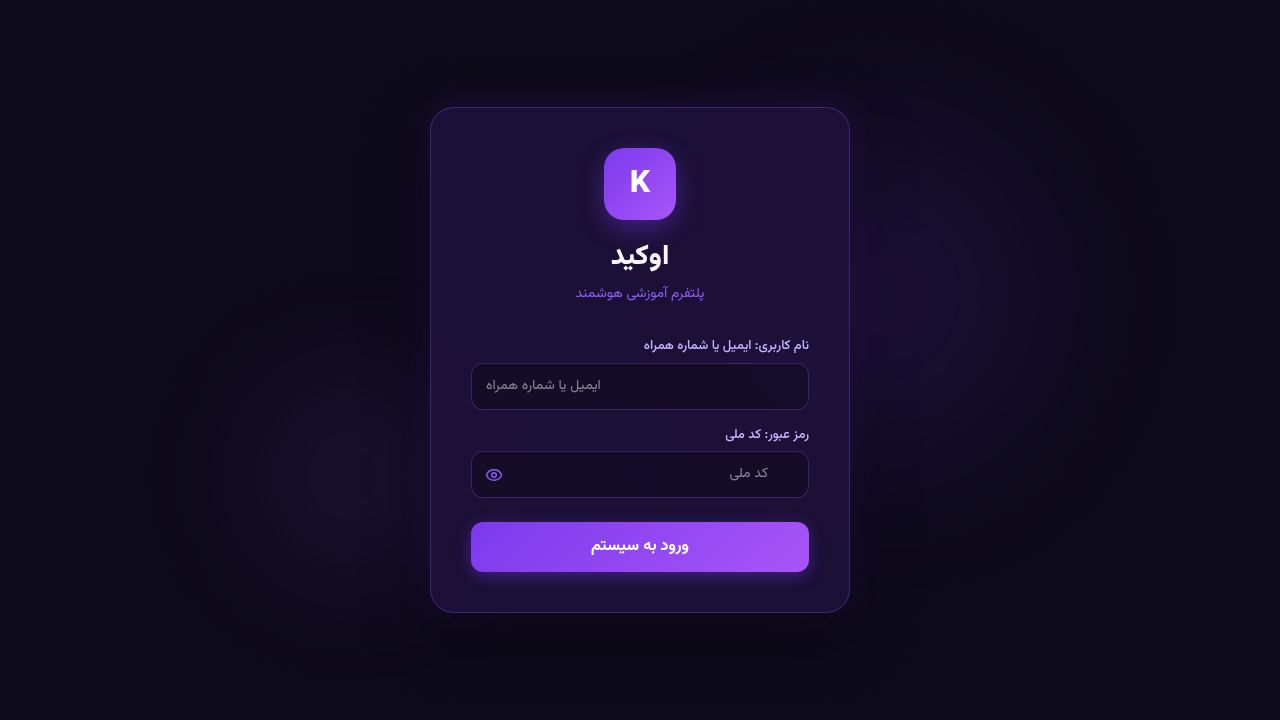
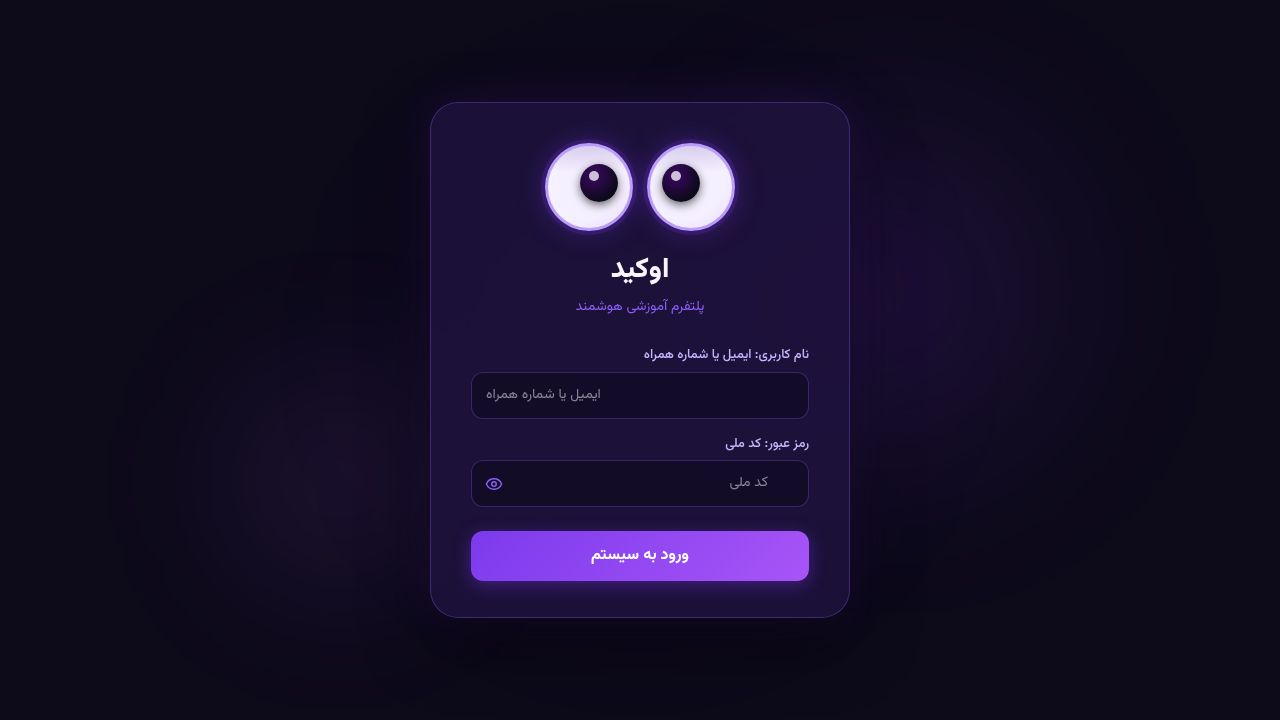
Add a dedicated section for teachers to send and receive notifications
Update API to support new notification fields and add a teacher notifications page with inbox and send functionalities.

Replit-Commit-Author: Agent
Replit-Commit-Session-Id: 32eac203-aa86-4546-9dbe-1a77ad4f8dbc
Replit-Commit-Checkpoint-Type: full_checkpoint
Replit-Commit-Event-Id: 1982fac4-1d1b-491f-a522-6bdc7282068e
Replit-Commit-Screenshot-Url: https://storage.googleapis.com/screenshot-production-us-central1/ea1dc6be-aa60-4f18-b8f4-bae2ee7fc477/32eac203-aa86-4546-9dbe-1a77ad4f8dbc/sMR4eHB
Replit-Helium-Checkpoint-Created: true

Changed region(s): [[0.4062, 0.1833, 0.625, 0.5194], [0.3438, 0.5806, 0.6562, 0.8556], [0.375, 0.5194, 0.4688, 0.5806]]

diff --git a/artifacts/okidd/src/pages/teacher/Notifications.tsx b/artifacts/okidd/src/pages/teacher/Notifications.tsx
@@ -1,0 +1,305 @@
+import { useState, useMemo } from "react";
+import { useQuery, useMutation, useQueryClient } from "@tanstack/react-query";
+import { api } from "../../lib/api";
+import { useAuthStore } from "../../store/auth";
+import { showToast } from "../../lib/toast";
+import { Bell, Send, Plus, Users, User, ChevronDown } from "lucide-react";
+
+const inputStyle = {
+  width: "100%",
+  background: "rgba(13,10,26,0.5)",
+  border: "1px solid rgba(139,92,246,0.3)",
+  borderRadius: 10,
+  color: "#f8f5ff",
+  padding: "10px 12px",
+  fontSize: 14,
+  fontFamily: "Vazirmatn, sans-serif",
+  outline: "none",
+  direction: "rtl" as const,
+  boxSizing: "border-box" as const,
+};
+
+type TargetType = "all_students" | "all_parents" | "specific_students" | "specific_parents";
+
+const TARGET_OPTIONS: { value: TargetType; label: string }[] = [
+  { value: "all_students", label: "همه دانشآموزان کلاس" },
+  { value: "all_parents", label: "همه اولیا کلاس" },
+  { value: "specific_students", label: "دانشآموزان خاص" },
+  { value: "specific_parents", label: "اولیای دانشآموزان خاص" },
+];
+
+export default function TeacherNotifications() {
+  const { user } = useAuthStore();
+  const qc = useQueryClient();
+  const [tab, setTab] = useState<"inbox" | "send">("inbox");
+  const [form, setForm] = useState({ title: "", body: "", classId: "", targetType: "all_students" as TargetType });
+  const [selectedStudentIds, setSelectedStudentIds] = useState<number[]>([]);
+
+  const { data: classes = [] } = useQuery<any[]>({
+    queryKey: ["classes", "teacher", user?.id],
+    queryFn: () => api.get(`/classes?teacherId=${user?.id}`),
+    enabled: !!user?.id,
+  });
+
+  const schoolIds = useMemo(() => [...new Set(classes.map((c: any) => c.schoolId).filter(Boolean))], [classes]);
+
+  const { data: broadcastNotifs = [] } = useQuery<any[]>({
+    queryKey: ["notifs-teacher-broadcast", schoolIds],
+    queryFn: async () => {
+      const all = await Promise.all(schoolIds.map(sid => api.get(`/notifications?schoolId=${sid}&targetRole=teacher`)));
+      return all.flat();
+    },
+    enabled: schoolIds.length > 0,
+  });
+
+  const { data: personalNotifs = [] } = useQuery<any[]>({
+    queryKey: ["notifs-teacher-personal", user?.id],
+    queryFn: () => api.get(`/notifications?targetUserId=${user?.id}&targetRole=teacher`),
+    enabled: !!user?.id,
+  });
+
+  const inbox = useMemo(() => {
+    const seen = new Set<number>();
+    return [...broadcastNotifs, ...personalNotifs]
+      .filter(n => { if (seen.has(n.id)) return false; seen.add(n.id); return true; })
+      .sort((a, b) => new Date(b.createdAt).getTime() - new Date(a.createdAt).getTime());
+  }, [broadcastNotifs, personalNotifs]);
+
+  const selectedClass = classes.find((c: any) => c.id === parseInt(form.classId));
+
+  const { data: classStudents = [] } = useQuery<any[]>({
+    queryKey: ["students-in-class", form.classId],
+    queryFn: () => api.get(`/users?classId=${form.classId}&role=student`),
+    enabled: !!form.classId && (form.targetType === "specific_students" || form.targetType === "specific_parents"),
+  });
+
+  const toggleStudent = (id: number) =>
+    setSelectedStudentIds(prev => prev.includes(id) ? prev.filter(x => x !== id) : [...prev, id]);
+
+  const sendMut = useMutation({
+    mutationFn: async (payload: { title: string; body: string; classId?: number; targetType: TargetType }) => {
+      const schoolId = selectedClass?.schoolId;
+      if (!schoolId) throw new Error("schoolId یافت نشد");
+      const base = { title: payload.title, body: payload.body, schoolId, senderId: user?.id, classId: payload.classId };
+
+      if (payload.targetType === "all_students") {
+        return api.post("/notifications", { ...base, targetRole: "student" });
+      }
+      if (payload.targetType === "all_parents") {
+        return api.post("/notifications", { ...base, targetRole: "parent" });
+      }
+      if (payload.targetType === "specific_students") {
+        if (!selectedStudentIds.length) throw new Error("حداقل یک دانشآموز انتخاب کنید");
+        return Promise.all(selectedStudentIds.map(uid =>
+          api.post("/notifications", { ...base, targetRole: "student", targetUserId: uid })
+        ));
+      }
+      if (payload.targetType === "specific_parents") {
+        if (!selectedStudentIds.length) throw new Error("حداقل یک دانشآموز انتخاب کنید");
+        const parents = selectedStudentIds.map(sid => classStudents.find((s: any) => s.id === sid)?.parentId).filter(Boolean);
+        if (!parents.length) throw new Error("اولیا پیدا نشد");
+        return Promise.all(parents.map((pid: number) =>
+          api.post("/notifications", { ...base, targetRole: "parent", targetUserId: pid })
+        ));
+      }
+      throw new Error("نوع مخاطب نامعتبر");
+    },
+    onSuccess: () => {
+      qc.invalidateQueries({ queryKey: ["notifs-teacher"] });
+      setForm({ title: "", body: "", classId: "", targetType: "all_students" });
+      setSelectedStudentIds([]);
+      showToast("پیام با موفقیت ارسال شد ✓");
+      setTab("inbox");
+    },
+    onError: (e: any) => showToast(e?.message ?? "خطا در ارسال", "error"),
+  });
+
+  const needsStudentPick = form.targetType === "specific_students" || form.targetType === "specific_parents";
+  const canSend = form.title && form.body && form.classId && (!needsStudentPick || selectedStudentIds.length > 0);
+
+  const tabStyle = (active: boolean) => ({
+    flex: 1,
+    padding: "10px 0",
+    border: "none",
+    borderRadius: 10,
+    fontFamily: "Vazirmatn, sans-serif",
+    fontSize: 14,
+    fontWeight: 700,
+    cursor: "pointer",
+    background: active ? "linear-gradient(135deg, #7c3aed, #a855f7)" : "transparent",
+    color: active ? "white" : "#8b5cf6",
+    transition: "all 0.2s",
+  });
+
+  return (
+    <div>
+      <div style={{ display: "flex", alignItems: "center", gap: 12, marginBottom: 24 }}>
+        <Bell size={22} style={{ color: "#f97316" }} />
+        <h1 style={{ fontSize: 22, fontWeight: 800, color: "#f8f5ff", margin: 0 }}>اعلانها</h1>
+      </div>
+
+      <div style={{ display: "flex", gap: 8, background: "rgba(30,18,60,0.7)", border: "1px solid rgba(124,58,237,0.2)", borderRadius: 12, padding: 4, marginBottom: 24 }}>
+        <button style={tabStyle(tab === "inbox")} onClick={() => setTab("inbox")}>
+          <span style={{ display: "flex", alignItems: "center", justifyContent: "center", gap: 6 }}>
+            <Bell size={15} /> دریافتشده {inbox.length > 0 && <span style={{ background: "#f97316", color: "white", borderRadius: 999, padding: "1px 7px", fontSize: 11 }}>{inbox.length}</span>}
+          </span>
+        </button>
+        <button style={tabStyle(tab === "send")} onClick={() => setTab("send")}>
+          <span style={{ display: "flex", alignItems: "center", justifyContent: "center", gap: 6 }}>
+            <Send size={15} /> ارسال پیام
+          </span>
+        </button>
+      </div>
+
+      {tab === "inbox" && (
+        <div style={{ display: "flex", flexDirection: "column", gap: 10 }}>
+          {inbox.map(n => (
+            <div key={n.id} style={{ background: "rgba(30,18,60,0.85)", border: "1px solid rgba(139,92,246,0.2)", borderRadius: 14, padding: "16px 18px", display: "flex", alignItems: "flex-start", gap: 14 }}>
+              <div style={{ width: 40, height: 40, borderRadius: 12, background: "rgba(249,115,22,0.15)", border: "1px solid rgba(249,115,22,0.3)", display: "flex", alignItems: "center", justifyContent: "center", flexShrink: 0 }}>
+                <Bell size={18} style={{ color: "#f97316" }} />
+              </div>
+              <div style={{ flex: 1 }}>
+                <div style={{ fontWeight: 700, color: "#f8f5ff", fontSize: 15, marginBottom: 4 }}>{n.title}</div>
+                <p style={{ color: "#c4b5fd", fontSize: 13, margin: 0, lineHeight: 1.6 }}>{n.body}</p>
+                {n.createdAt && (
+                  <div style={{ color: "#8b5cf6", fontSize: 11, marginTop: 6 }}>
+                    {new Date(n.createdAt).toLocaleDateString("fa-IR")}
+                  </div>
+                )}
+              </div>
+            </div>
+          ))}
+          {inbox.length === 0 && (
+            <div style={{ textAlign: "center", padding: 50, color: "#8b5cf6" }}>
+              <Bell size={48} style={{ marginBottom: 12, opacity: 0.4, display: "block", margin: "0 auto 12px" }} />
+              <p>هیچ اعلانی دریافت نشده</p>
+            </div>
+          )}
+        </div>
+      )}
+
+      {tab === "send" && (
+        <div style={{ background: "rgba(30,18,60,0.85)", border: "1px solid rgba(124,58,237,0.3)", borderRadius: 16, padding: 24 }}>
+          <h3 style={{ color: "#f8f5ff", fontSize: 16, fontWeight: 700, marginTop: 0, marginBottom: 20 }}>ارسال پیام جدید</h3>
+          <div style={{ display: "grid", gap: 16 }}>
+
+            <div>
+              <label style={{ display: "block", color: "#c4b5fd", fontSize: 13, marginBottom: 6 }}>انتخاب کلاس</label>
+              <div style={{ position: "relative" }}>
+                <select value={form.classId} onChange={e => { setForm({ ...form, classId: e.target.value }); setSelectedStudentIds([]); }} style={{ ...inputStyle, appearance: "none", paddingLeft: 36 }}>
+                  <option value="">-- کلاس را انتخاب کنید --</option>
+                  {classes.map((c: any) => (
+                    <option key={c.id} value={c.id}>{c.name}</option>
+                  ))}
+                </select>
+                <ChevronDown size={16} style={{ position: "absolute", left: 12, top: "50%", transform: "translateY(-50%)", color: "#8b5cf6", pointerEvents: "none" }} />
+              </div>
+            </div>
+
+            <div>
+              <label style={{ display: "block", color: "#c4b5fd", fontSize: 13, marginBottom: 6 }}>مخاطبان</label>
+              <div style={{ display: "grid", gridTemplateColumns: "1fr 1fr", gap: 8 }}>
+                {TARGET_OPTIONS.map(opt => (
+                  <button key={opt.value} onClick={() => { setForm({ ...form, targetType: opt.value }); setSelectedStudentIds([]); }}
+                    style={{
+                      padding: "10px 12px", borderRadius: 10, border: "1px solid",
+                      borderColor: form.targetType === opt.value ? "#a855f7" : "rgba(139,92,246,0.25)",
+                      background: form.targetType === opt.value ? "rgba(124,58,237,0.25)" : "transparent",
+                      color: form.targetType === opt.value ? "#d8b4fe" : "#8b5cf6",
+                      fontFamily: "Vazirmatn, sans-serif", fontSize: 13, cursor: "pointer",
+                      display: "flex", alignItems: "center", gap: 6,
+                    }}>
+                    {opt.value.startsWith("all") ? <Users size={14} /> : <User size={14} />}
+                    {opt.label}
+                  </button>
+                ))}
+              </div>
+            </div>
+
+            {needsStudentPick && form.classId && (
+              <div>
+                <label style={{ display: "block", color: "#c4b5fd", fontSize: 13, marginBottom: 8 }}>
+                  انتخاب دانشآموزان
+                  {selectedStudentIds.length > 0 && (
+                    <span style={{ marginRight: 8, background: "rgba(124,58,237,0.3)", borderRadius: 999, padding: "2px 8px", fontSize: 11, color: "#d8b4fe" }}>
+                      {selectedStudentIds.length} نفر انتخاب شده
+                    </span>
+                  )}
+                </label>
+                <div style={{ background: "rgba(13,10,26,0.4)", border: "1px solid rgba(139,92,246,0.2)", borderRadius: 10, overflow: "hidden" }}>
+                  {classStudents.length === 0 && (
+                    <p style={{ color: "#8b5cf6", padding: "14px 16px", margin: 0, fontSize: 13 }}>دانشآموزی در این کلاس ثبت نشده</p>
+                  )}
+                  {classStudents.map((s: any, i: number) => {
+                    const selected = selectedStudentIds.includes(s.id);
+                    return (
+                      <div key={s.id} onClick={() => toggleStudent(s.id)}
+                        style={{
+                          display: "flex", alignItems: "center", gap: 12,
+                          padding: "10px 14px", cursor: "pointer",
+                          borderTop: i > 0 ? "1px solid rgba(139,92,246,0.1)" : "none",
+                          background: selected ? "rgba(124,58,237,0.15)" : "transparent",
+                          transition: "background 0.15s",
+                        }}>
+                        <div style={{
+                          width: 20, height: 20, borderRadius: 6, border: `2px solid ${selected ? "#a855f7" : "rgba(139,92,246,0.4)"}`,
+                          background: selected ? "#a855f7" : "transparent",
+                          display: "flex", alignItems: "center", justifyContent: "center", flexShrink: 0,
+                        }}>
+                          {selected && <span style={{ color: "white", fontSize: 12, lineHeight: 1 }}>✓</span>}
+                        </div>
+                        <span style={{ color: "#f8f5ff", fontSize: 14 }}>{s.name}</span>
+                        {form.targetType === "specific_parents" && s.parentId && (
+                          <span style={{ fontSize: 11, color: "#60a5fa", background: "rgba(59,130,246,0.1)", borderRadius: 999, padding: "2px 8px" }}>ولی دارد</span>
+                        )}
+                        {form.targetType === "specific_parents" && !s.parentId && (
+                          <span style={{ fontSize: 11, color: "#f87171", background: "rgba(248,113,113,0.1)", borderRadius: 999, padding: "2px 8px" }}>بدون ولی</span>
+                        )}
+                      </div>
+                    );
+                  })}
+                </div>
+                {classStudents.length > 0 && (
+                  <div style={{ display: "flex", gap: 8, marginTop: 8 }}>
+                    <button onClick={() => setSelectedStudentIds(classStudents.map((s: any) => s.id))}
+                      style={{ fontSize: 12, color: "#a855f7", background: "none", border: "none", cursor: "pointer", fontFamily: "Vazirmatn, sans-serif", padding: 0 }}>
+                      <Plus size={12} style={{ verticalAlign: "middle" }} /> انتخاب همه
+                    </button>
+                    <span style={{ color: "#4b5563" }}>|</span>
+                    <button onClick={() => setSelectedStudentIds([])}
+                      style={{ fontSize: 12, color: "#6b7280", background: "none", border: "none", cursor: "pointer", fontFamily: "Vazirmatn, sans-serif", padding: 0 }}>
+                      حذف انتخابها
+                    </button>
+                  </div>
+                )}
+              </div>
+            )}
+
+            <div>
+              <label style={{ display: "block", color: "#c4b5fd", fontSize: 13, marginBottom: 6 }}>عنوان پیام</label>
+              <input value={form.title} onChange={e => setForm({ ...form, title: e.target.value })} placeholder="عنوان را وارد کنید..." style={inputStyle} />
+            </div>
+
+            <div>
+              <label style={{ display: "block", color: "#c4b5fd", fontSize: 13, marginBottom: 6 }}>متن پیام</label>
+              <textarea value={form.body} onChange={e => setForm({ ...form, body: e.target.value })} rows={4} placeholder="متن پیام را اینجا بنویسید..." style={{ ...inputStyle, resize: "vertical" }} />
+            </div>
+
+            <button
+              onClick={() => sendMut.mutate({ title: form.title, body: form.body, classId: form.classId ? parseInt(form.classId) : undefined, targetType: form.targetType })}
+              disabled={!canSend || sendMut.isPending}
+              style={{
+                padding: "13px 0", background: canSend ? "linear-gradient(135deg, #7c3aed, #a855f7)" : "rgba(124,58,237,0.3)",
+                border: "none", borderRadius: 12, color: "white", fontSize: 15, fontWeight: 700,
+                fontFamily: "Vazirmatn, sans-serif", cursor: canSend ? "pointer" : "not-allowed",
+                display: "flex", alignItems: "center", justifyContent: "center", gap: 8,
+              }}>
+              <Send size={16} />
+              {sendMut.isPending ? "در حال ارسال..." : "ارسال پیام"}
+            </button>
+          </div>
+        </div>
+      )}
+    </div>
+  );
+}

diff --git a/artifacts/api-server/src/routes/notifications.ts b/artifacts/api-server/src/routes/notifications.ts
@@ -5,10 +5,13 @@ import { eq } from "drizzle-orm";
 const router = Router();
 
 router.get("/notifications", async (req, res) => {
-  const { schoolId, targetRole, userId } = req.query as Record<string, string>;
+  const { schoolId, targetRole, senderId, targetUserId } = req.query as Record<string, string>;
   let rows = await db.select().from(notificationsTable);
   if (schoolId) rows = rows.filter(n => n.schoolId === parseInt(schoolId));
   if (targetRole) rows = rows.filter(n => n.targetRole === targetRole);
+  if (senderId) rows = rows.filter(n => n.senderId === parseInt(senderId));
+  if (targetUserId) rows = rows.filter(n => n.targetUserId === parseInt(targetUserId));
+  rows.sort((a, b) => new Date(b.createdAt).getTime() - new Date(a.createdAt).getTime());
   res.json(rows);
 });
 

diff --git a/artifacts/okidd/src/components/Layout.tsx b/artifacts/okidd/src/components/Layout.tsx
@@ -55,7 +55,8 @@ const branchManagerNav: NavItem[] = [
 
 const teacherNav: NavItem[] = [
   { label: "داشبورد", path: "/teacher", icon: <LayoutDashboard size={18} />, color: "#8b5cf6", bgGradient: "linear-gradient(135deg, #7c3aed, #a855f7)", emoji: "📊" },
-  { label: "Progress Chart", path: "/teacher/progress", icon: <BarChart2 size={18} />, color: "#3b82f6", bgGradient: "linear-gradient(135deg, #2563eb, #3b82f6)", emoji: "📈" },
+  { label: "پراگرس چارت", path: "/teacher/progress", icon: <BarChart2 size={18} />, color: "#3b82f6", bgGradient: "linear-gradient(135deg, #2563eb, #3b82f6)", emoji: "📈" },
+  { label: "اعلانها", path: "/teacher/notifications", icon: <Bell size={18} />, color: "#f97316", bgGradient: "linear-gradient(135deg, #ea580c, #f97316)", emoji: "🔔" },
 ];
 
 const parentNav: NavItem[] = [

diff --git a/artifacts/okidd/src/App.tsx b/artifacts/okidd/src/App.tsx
@@ -40,6 +40,7 @@ import TeacherDashboard from "./pages/teacher/Dashboard";
 import TeacherMySchools from "./pages/teacher/MySchools";
 import TeacherClasses from "./pages/teacher/Classes";
 import TeacherProgress from "./pages/teacher/Progress";
+import TeacherNotifications from "./pages/teacher/Notifications";
 
 import ParentDashboard from "./pages/parent/Dashboard";
 import ParentChildren from "./pages/parent/Children";
@@ -138,6 +139,7 @@ function AppRouter() {
       <Route path="/teacher/schools"><LayoutRoute component={TeacherMySchools} roles={["teacher"]} /></Route>
       <Route path="/teacher/classes"><LayoutRoute component={TeacherClasses} roles={["teacher"]} /></Route>
       <Route path="/teacher/progress"><LayoutRoute component={TeacherProgress} roles={["teacher"]} /></Route>
+      <Route path="/teacher/notifications"><LayoutRoute component={TeacherNotifications} roles={["teacher"]} /></Route>
 
       {/* Parent */}
       <Route path="/parent"><LayoutRoute component={ParentDashboard} roles={["parent"]} /></Route>

diff --git a/lib/db/src/schema/notifications.ts b/lib/db/src/schema/notifications.ts
@@ -11,6 +11,8 @@ export const notificationsTable = pgTable("notifications", {
   branchId: integer("branch_id"),
   gradeLevelId: integer("grade_level_id"),
   classId: integer("class_id"),
+  senderId: integer("sender_id"),
+  targetUserId: integer("target_user_id"),
   createdAt: timestamp("created_at", { withTimezone: true }).notNull().defaultNow(),
 });
 